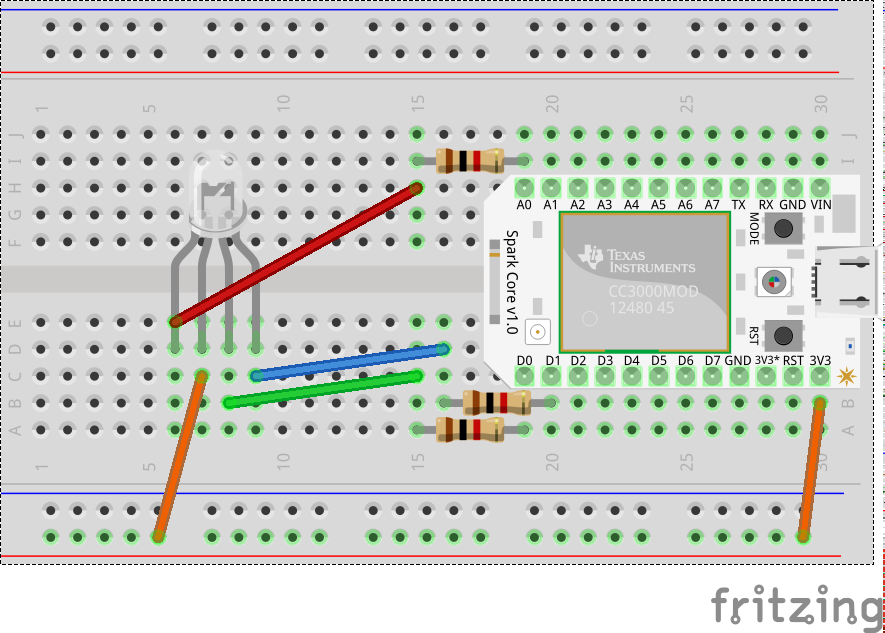
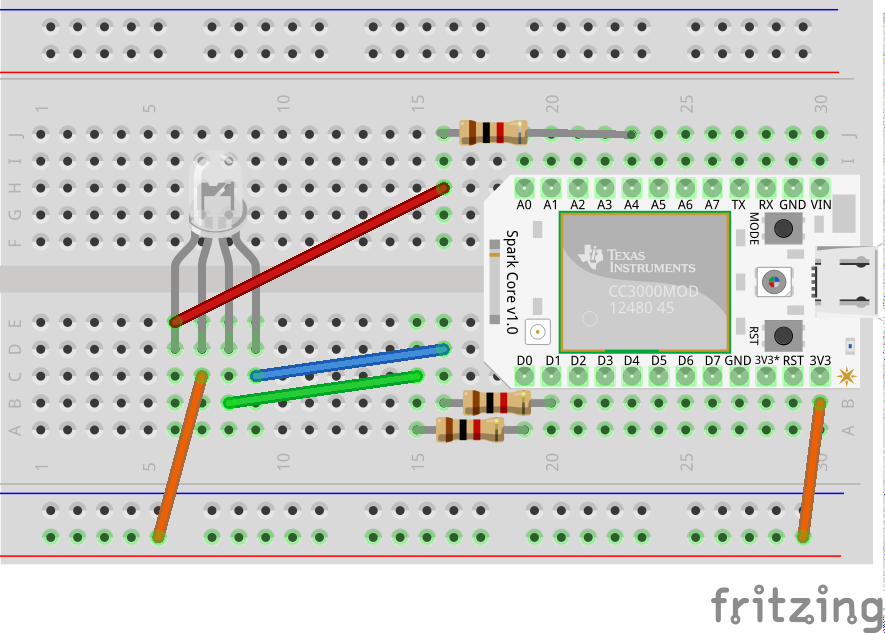
section 2 errors and errata

diff --git a/2-leds-continued/using-rgb-leds.md b/2-leds-continued/using-rgb-leds.md
@@ -7,7 +7,7 @@ We’re going to make an RGB LED that you can control from a webpage
 
 ## Step 1: Create your Circuit
 
-The circuit, wiring and components look like this. Connect the red terminal to <code>A0</code>, connect the green to <code>D0</code> and the blue to <code>D1</code>. All should be connected to 1KOhm resistor. Finally connect the common anode to the power (3v3). 
+The circuit, wiring and components look like this. Connect the red terminal to <code>A4</code>, connect the green to <code>D0</code> and the blue to <code>D1</code>. All should be connected to 1KOhm resistor. Finally connect the common anode to the power (3v3). 
 
 {% include figure.html src="../images/using_rgbs_0.png" caption="RGB LED Circuit Diagram" class="" %}
 
@@ -17,12 +17,12 @@ Let’s get the basics of our sketch underway.
 
 #### Add your variables
 
-Map your red pin to <code>A0</code>, your green pin to <code>D0</code> and your blue pin to <code>D1</code>. All of these pins have PWM control.
+Map your red pin to <code>A4</code>, your green pin to <code>D0</code> and your blue pin to <code>D1</code>. All of these pins have PWM control.
 
 Then create variables to store your red green and blue components. We’ll use this later.
 
 ````
-int redPin = A0;    // RED pin of the LED to PWM pin **A0**
+int redPin = A4;    // RED pin of the LED to PWM pin **A4**
 int greenPin = D0;  // GREEN pin of the LED to PWM pin **D0**
 int bluePin = D1;   // BLUE pin of the LED to PWM pin **D1**
 int redValue = 255; // Full brightness for an Cathode RGB LED is 0, and off 255
